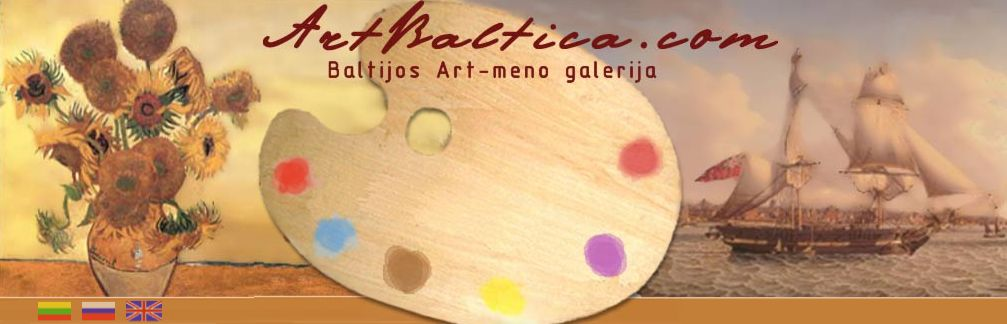
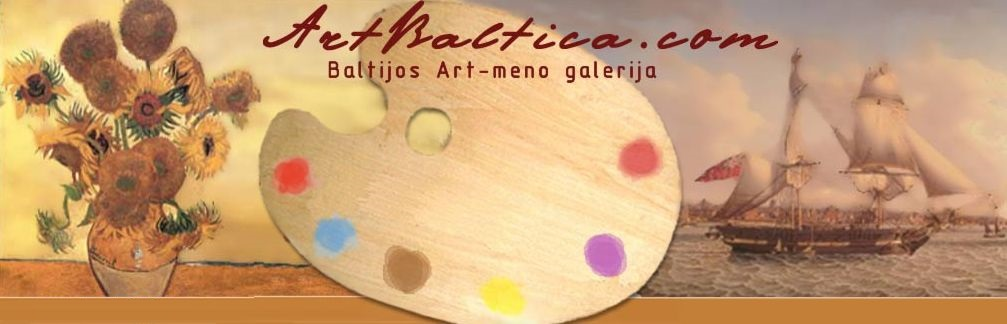
Pakeisti svetainės spalvas pagal ArtBaltica piešinį ir nuimti vėliavėles.

Changed region(s): [[0.0308, 0.9259, 0.1847, 1.0]]

diff --git a/src/components/Uzduotys/Uzduotys.css b/src/components/Uzduotys/Uzduotys.css
@@ -36,11 +36,11 @@
   border-radius: 12px;
   font: inherit;
   color: var(--text);
-  background: #f8f4ff;
+  background: var(--field);
 }
 
 .uzduotys__row input:focus {
-  outline: 2px solid var(--purple);
+  outline: 2px solid var(--ink);
   outline-offset: 2px;
 }
 
@@ -55,7 +55,7 @@
   border: 0;
   border-radius: 12px;
   font-weight: 650;
-  color: #fff;
+  color: var(--button-text);
   background: var(--purple);
 }
 
@@ -104,11 +104,11 @@
   border-radius: 12px;
   font: inherit;
   color: var(--text);
-  background: #f8f4ff;
+  background: var(--field);
 }
 
 .uzduotys__edit:focus {
-  outline: 2px solid var(--purple);
+  outline: 2px solid var(--ink);
   outline-offset: 2px;
 }
 
@@ -122,12 +122,12 @@
   padding: 0;
   border: 0;
   background: transparent;
-  color: var(--purple);
+  color: var(--ink);
   font-weight: 650;
 }
 
 .uzduotys__action:hover {
-  color: var(--purple-hover);
+  color: var(--text-h);
 }
 
 @media (max-width: 520px) {

diff --git a/src/index.css b/src/index.css
@@ -1,17 +1,22 @@
 :root {
-  --text: #2d2150;
-  --text-h: #1b1035;
-  --muted: #6b5b8c;
-  --bg: #d8e9fb;
-  --bg-accent: #c9b6f2;
-  --border: #d4c4f0;
-  --card: #ffffff;
-  --purple: #7c3aed;
-  --purple-hover: #6d28d9;
-  --purple-soft: rgba(124, 58, 237, 0.14);
-  --error: #c62828;
-  --success: #5b21b6;
-  --shadow: 0 14px 32px rgba(91, 33, 182, 0.16);
+  --text: #4a3424;
+  --text-h: #2c1c12;
+  --muted: #7a624e;
+  --bg: #f4ead8;
+  --bg-accent: #e7d3ae;
+  --border: #e0cba8;
+  --card: #fffaf3;
+  --sheet: rgba(255, 248, 238, 0.55);
+  --nav: rgba(255, 248, 238, 0.92);
+  --field: #f8f1e4;
+  --purple: #c4a574;
+  --purple-hover: #b08d58;
+  --purple-soft: rgba(166, 124, 82, 0.18);
+  --ink: #8a5a32;
+  --button-text: #2c1c12;
+  --error: #9c3b32;
+  --success: #6b4423;
+  --shadow: 0 14px 32px rgba(90, 58, 28, 0.16);
   --sans: system-ui, 'Segoe UI', Roboto, sans-serif;
 
   font: 18px/145% var(--sans);

diff --git a/src/components/Header/Header.css b/src/components/Header/Header.css
@@ -12,7 +12,7 @@
   flex-wrap: wrap;
   gap: 6px 8px;
   padding: 14px 20px;
-  background: rgba(255, 255, 255, 0.88);
+  background: var(--nav);
   border-bottom: 1px solid var(--border);
   backdrop-filter: blur(8px);
 }
@@ -28,12 +28,12 @@
 .nav a:hover,
 .nav a[aria-current='page'] {
   background: var(--purple-soft);
-  color: var(--purple);
+  color: var(--ink);
 }
 
-.header__slogan {
-  margin: 10px 0 0;
-  color: var(--purple);
+.header p.header__slogan {
+  margin: 40px 0 0;
+  color: var(--ink);
   font-size: 1.2rem;
   font-weight: 650;
 }
@@ -46,7 +46,7 @@
 }
 
 .header h1 {
-  margin: 12px 0 8px;
+  margin: 12px 0 0;
   font-size: clamp(32px, 6vw, 52px);
   font-weight: 650;
   color: var(--text-h);

diff --git a/src/components/ProgressBar/ProgressBar.css b/src/components/ProgressBar/ProgressBar.css
@@ -17,13 +17,13 @@
 
 .progress__value {
   font-weight: 700;
-  color: var(--purple);
+  color: var(--ink);
 }
 
 .progress__track {
   height: 16px;
   border-radius: 999px;
-  background: rgba(255, 255, 255, 0.7);
+  background: rgba(255, 250, 243, 0.8);
   border: 1px solid var(--border);
   overflow: hidden;
 }
@@ -31,7 +31,7 @@
 .progress__fill {
   height: 100%;
   border-radius: inherit;
-  background: linear-gradient(90deg, #a78bfa, var(--purple));
+  background: linear-gradient(90deg, #e6c98a, #a67c52);
   transition: width 0.35s ease;
 }
 
@@ -44,6 +44,6 @@
 }
 
 .progress__scale .is-active {
-  color: var(--purple);
+  color: var(--ink);
   font-weight: 700;
 }

diff --git a/src/components/JoinForm/JoinForm.css b/src/components/JoinForm/JoinForm.css
@@ -36,11 +36,11 @@
   border-radius: 12px;
   font: inherit;
   color: var(--text);
-  background: #f8f4ff;
+  background: var(--field);
 }
 
 .join-form input:focus {
-  outline: 2px solid var(--purple);
+  outline: 2px solid var(--ink);
   outline-offset: 2px;
 }
 
@@ -51,7 +51,7 @@
   border: 0;
   border-radius: 12px;
   font-weight: 650;
-  color: #fff;
+  color: var(--button-text);
   background: var(--purple);
 }
 

diff --git a/src/components/SiteFooter/SiteFooter.css b/src/components/SiteFooter/SiteFooter.css
@@ -5,7 +5,7 @@
   padding: 32px;
   text-align: left;
   border-top: 1px solid var(--border);
-  background: rgba(255, 255, 255, 0.35);
+  background: var(--sheet);
 }
 
 .site-footer h2 {
@@ -42,7 +42,7 @@
   padding: 8px 14px;
   border-radius: 10px;
   text-decoration: none;
-  color: #fff;
+  color: var(--button-text);
   background: var(--purple);
 }
 

diff --git a/src/App.css b/src/App.css
@@ -4,7 +4,7 @@
   min-height: 100svh;
   display: flex;
   flex-direction: column;
-  background: rgba(255, 255, 255, 0.28);
+  background: var(--sheet);
   border-inline: 1px solid var(--border);
 }
 

diff --git a/context.md b/context.md
@@ -1,6 +1,6 @@
 # Pirmas projektas — kontekstas
 
-Paskutinį kartą atnaujinta: 2026-10-08.
+Paskutinį kartą atnaujinta: 2026-10-22.
 
 Šis failas skirtas pokalbiams apie projektą. Jame laikoma tai, kas jau yra kode, ir tai, ką autorė pasakė atskirai. Kiekvieno pokalbio pabaigoje failas papildomas tik tais pakeitimais, kurie tikrai įvyko.
 
@@ -63,13 +63,16 @@ Paspaudus „Prisijungti“, vardas ir slaptažodis įrašomi į https://testapi
 
 ## Dabartinis vaizdas
 
-Spalvos paimtos iš `src/index.css`. 2026-10-06 autorė pasakė, kad spalvos kol kas lieka. Šrifto ir išdėstymo ji atskirai nepatvirtino.
+2026-10-22 autorė paprašė spalvų, derančių prie ArtBaltica piešinio. Šriftas ir išdėstymas liko tie patys.
 
-- Tekstas: `#2d2150`, antraštės: `#1b1035`, prigesintas tekstas: `#6b5b8c`
-- Foną sudaro šviesiai mėlyna `#d8e9fb` ir alyvinis akcentas `#c9b6f2`
-- Mygtukai ir nuorodos: violetinė `#7c3aed`, užvedus `#6d28d9`
+- Tekstas: `#4a3424`, antraštės: `#2c1c12`, prigesintas tekstas: `#7a624e`
+- Foną sudaro smėlio `#f4ead8` ir šiltas akcentas `#e7d3ae`
+- Mygtukai šviesiai rudi `#c4a574`, užvedus `#b08d58`, tekstas ant mygtuko `#2c1c12`
+- Šūkis ir tekstinės nuorodos: `#8a5a32`
 - Šriftas: `system-ui`, Segoe UI, Roboto
 - Bazinis dydis: 18px
+
+Senoji violetinė gama neištrinta. Ji ir naujoji laikomos `.cursor/skills/galerijos-spalvos/palettes.md`.
 
 ## Failai
 
@@ -88,6 +91,7 @@ src/
   App.css
   main.jsx
   index.css       spalvos ir bazinis tekstas
+.cursor/skills/galerijos-spalvos/   sena ir nauja spalvų gama
 README.md         kaip paleisti projektą
 context.md        šis failas
 AL_RULES.md       instrukcijos ir taisyklės naujiems komponentams
@@ -130,3 +134,9 @@ Pokalbio pabaigoje įrašyti tik tai, kas pasikeitė: naujus puslapius, tekstus,
 2026-10-08 prisijungus rodomas mygtukas „Atsijungti“. Jis grąžina tuščią formą ir 0 % progresą. Pasveikinimo teksto nekeisti.
 
 2026-10-08 užduotį galima atnaujinti mygtuku „Atnaujinti“, tada „Išsaugoti“ arba „Atšaukti“. Keitimas siunčiamas metodu `PUT` į tą patį adresą su įrašo `id`. Lauko vardo `tasklistnata1` nekeisti.
+
+2026-10-22 spalvos pakeistos į smėlio ir šviesiai rudą gamą pagal `src/assets/artbaltica-lt.jpg`. Mygtukų klasės vardo `button--purple` nekeisti. Senoji violetinė gama palikta skill faile `.cursor/skills/galerijos-spalvos/palettes.md` ir į puslapį negrąžinama, kol autorė nepaprašo. Šūkio, formos tekstų ir progreso taisyklių nekeisti.
+
+2026-10-22 iš `src/assets/artbaltica-lt.jpg` apačios kairėje nuimtos trys vėliavėlės. Ruda juosta palikta. Likusio piešinio nekeisti.
+
+2026-10-22 šūkis „Čia jūsų visada laukiame!“ nuleistas žemiau antraštės „Pirmas projektas“. Šūkio teksto nekeisti.

diff --git a/.cursor/skills/galerijos-spalvos/palettes.md b/.cursor/skills/galerijos-spalvos/palettes.md
@@ -1,0 +1,52 @@
+# Spalvų gamos
+
+## Sena gama
+
+Galiojo iki 2026-10-22. Šviesiai mėlynas fonas ir violetiniai mygtukai.
+
+| Vardas | Reikšmė |
+|---|---|
+| `--text` | `#2d2150` |
+| `--text-h` | `#1b1035` |
+| `--muted` | `#6b5b8c` |
+| `--bg` | `#d8e9fb` |
+| `--bg-accent` | `#c9b6f2` |
+| `--border` | `#d4c4f0` |
+| `--card` | `#ffffff` |
+| `--purple` | `#7c3aed` |
+| `--purple-hover` | `#6d28d9` |
+| `--purple-soft` | `rgba(124, 58, 237, 0.14)` |
+| `--error` | `#c62828` |
+| `--success` | `#5b21b6` |
+| `--shadow` | `0 14px 32px rgba(91, 33, 182, 0.16)` |
+| lauko fonas | `#f8f4ff` |
+| tekstas ant mygtuko | `#ffffff` |
+| progreso juosta | `linear-gradient(90deg, #a78bfa, #7c3aed)` |
+| kolonos fonas | `rgba(255, 255, 255, 0.28)` |
+| meniu fonas | `rgba(255, 255, 255, 0.88)` |
+
+## Nauja gama
+
+Galioja nuo 2026-10-22. Paimta iš `src/assets/artbaltica-lt.jpg`: smėlis, medis, šviesiai rudi mygtukai. Tekstas ant mygtuko tamsus, kad šviesus rudas fonas liktų įskaitomas.
+
+| Vardas | Reikšmė |
+|---|---|
+| `--text` | `#4a3424` |
+| `--text-h` | `#2c1c12` |
+| `--muted` | `#7a624e` |
+| `--bg` | `#f4ead8` |
+| `--bg-accent` | `#e7d3ae` |
+| `--border` | `#e0cba8` |
+| `--card` | `#fffaf3` |
+| `--sheet` | `rgba(255, 248, 238, 0.55)` |
+| `--nav` | `rgba(255, 248, 238, 0.92)` |
+| `--field` | `#f8f1e4` |
+| `--purple` | `#c4a574` |
+| `--purple-hover` | `#b08d58` |
+| `--purple-soft` | `rgba(166, 124, 82, 0.18)` |
+| `--ink` | `#8a5a32` |
+| `--button-text` | `#2c1c12` |
+| `--error` | `#9c3b32` |
+| `--success` | `#6b4423` |
+| `--shadow` | `0 14px 32px rgba(90, 58, 28, 0.16)` |
+| progreso juosta | `linear-gradient(90deg, #e6c98a, #a67c52)` |

diff --git a/AGENTS.md b/AGENTS.md
@@ -19,9 +19,13 @@ Svetainė yra autorės galerija jos paveikslams ir ikonoms. Paveikslai ir ikonos
 - Kontaktai atidaro atskirą puslapį su tuo pačiu meniu. Pradžia grąžina į pagrindinį puslapį
 - Poraštė su dokumentacija ir Vite bendruomene
 
-Visi lankytojo tekstai rašomi tik lietuvių kalba. Spalvos kol kas lieka iš `src/index.css`.
+Visi lankytojo tekstai rašomi tik lietuvių kalba. Spalvos imamos iš `src/index.css` ir dera prie ArtBaltica piešinio: smėlio fonas, šviesiai rudi mygtukai.
 
 Prisijungus vardas ir slaptažodis įrašomi į `auth` lauką `auth1`. Slaptažodis puslapyje nerodomas. Prisijungimas turi veikti ir kompiuteryje, ir telefone.
+
+## Skill
+
+Projekto skill yra `.cursor/skills/galerijos-spalvos/`. Į naują skill leidžiama perkelti duomenis iš seno projekto: ankstesnes spalvas, tekstus ir aprašus, kurie jau yra šiame projekte. Senų duomenų iš skill failų netrinti, kai įrašomi nauji.
 
 ## Kaip keisti
 

diff --git a/.cursor/skills/galerijos-spalvos/SKILL.md b/.cursor/skills/galerijos-spalvos/SKILL.md
@@ -1,0 +1,14 @@
+---
+name: galerijos-spalvos
+description: Laiko Pirmas projektas seną violetinę ir naują smėlio spalvų gamą ir nurodo, kurią naudoti puslapyje. Naudok, kai keičiamos svetainės spalvos, mygtukai, fonas arba ArtBaltica piešinio paletė.
+---
+
+# Galerijos spalvos
+
+Puslapyje naudojama tik nauja gama iš `src/index.css`. Senoji gama lieka šiame skill ir į puslapį negrąžinama, kol autorė atskirai nepaprašo.
+
+Abi gamos surašytos [palettes.md](palettes.md). Senų eilučių netrink. Jei gama vėl keičiasi, naują bloką pridėk po senuoju.
+
+Mygtukų klasė lieka `button button--purple`. Kintamojo `--purple` reikšmė dabar yra šviesiai ruda, ne violetinė. Tekstas ant mygtuko yra `--button-text`. Šūkis ir tekstinės nuorodos naudoja `--ink`.
+
+Spalvas imk tik iš `src/index.css` kintamųjų. Lauko fonui naudok `--field`, ne atskirą šešioliktainį kodą.

diff --git a/AL_RULES.md b/AL_RULES.md
@@ -25,14 +25,15 @@ src/components/KomponentoVardas/
 
 ## Spalvos ir šriftas
 
-Naujos spalvos nekuriamos, kol autorė nepasako kitaip. Naudojami kintamieji iš `src/index.css`:
+Spalvos imamos iš `src/index.css`. 2026-10-22 autorė paprašė smėlio gamos pagal ArtBaltica piešinį. Mygtukai šviesiai rudi.
 
 - tekstas `--text`, antraštės `--text-h`, prigesintas tekstas `--muted`
 - fonas `--bg` ir `--bg-accent`
-- mygtukai `--purple` ir `--purple-hover`
+- mygtukai `--purple` ir `--purple-hover`, mygtuko tekstas `--button-text`
+- nuorodos ir šūkis `--ink`
 - šriftas `--sans`
 
-Mygtukas, kuris atrodo kaip esami violetiniai mygtukai, naudoja klasę `button button--purple`.
+Klasės vardas lieka `button button--purple`. Senoji violetinė gama išsaugota skill faile ir į puslapį negrąžinama, kol autorė nepaprašo.
 
 ## Puslapis
 
